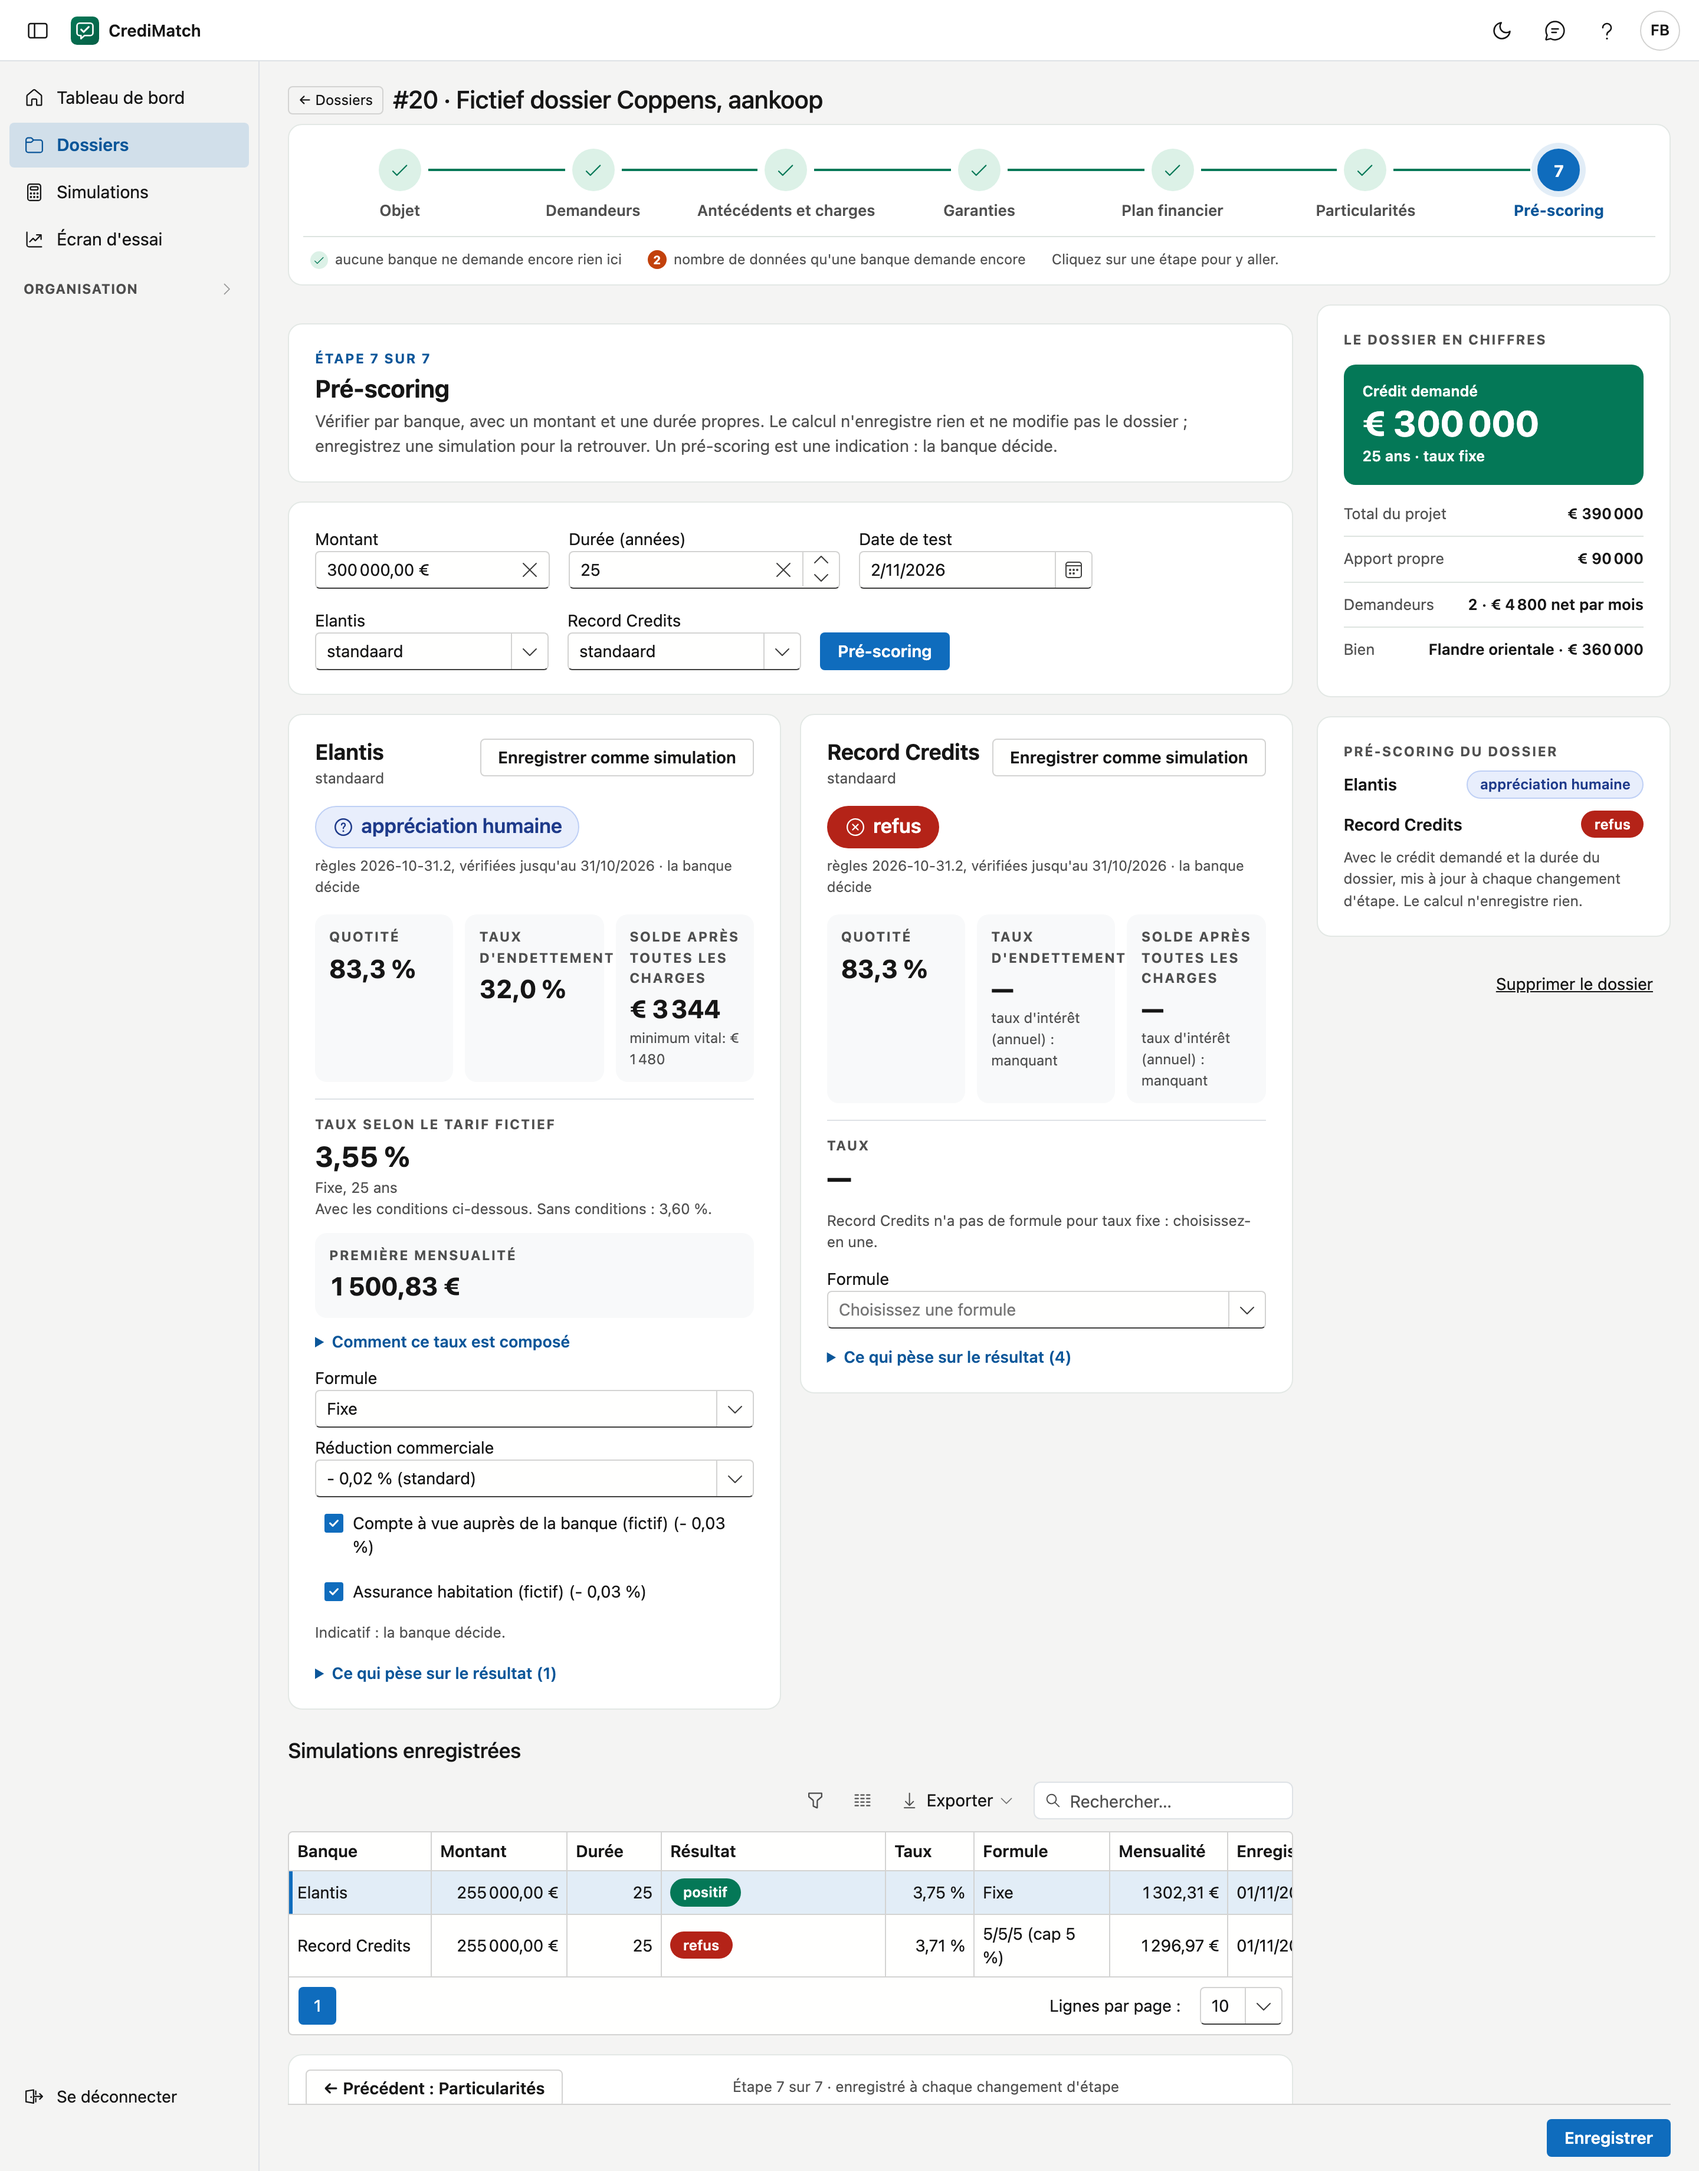
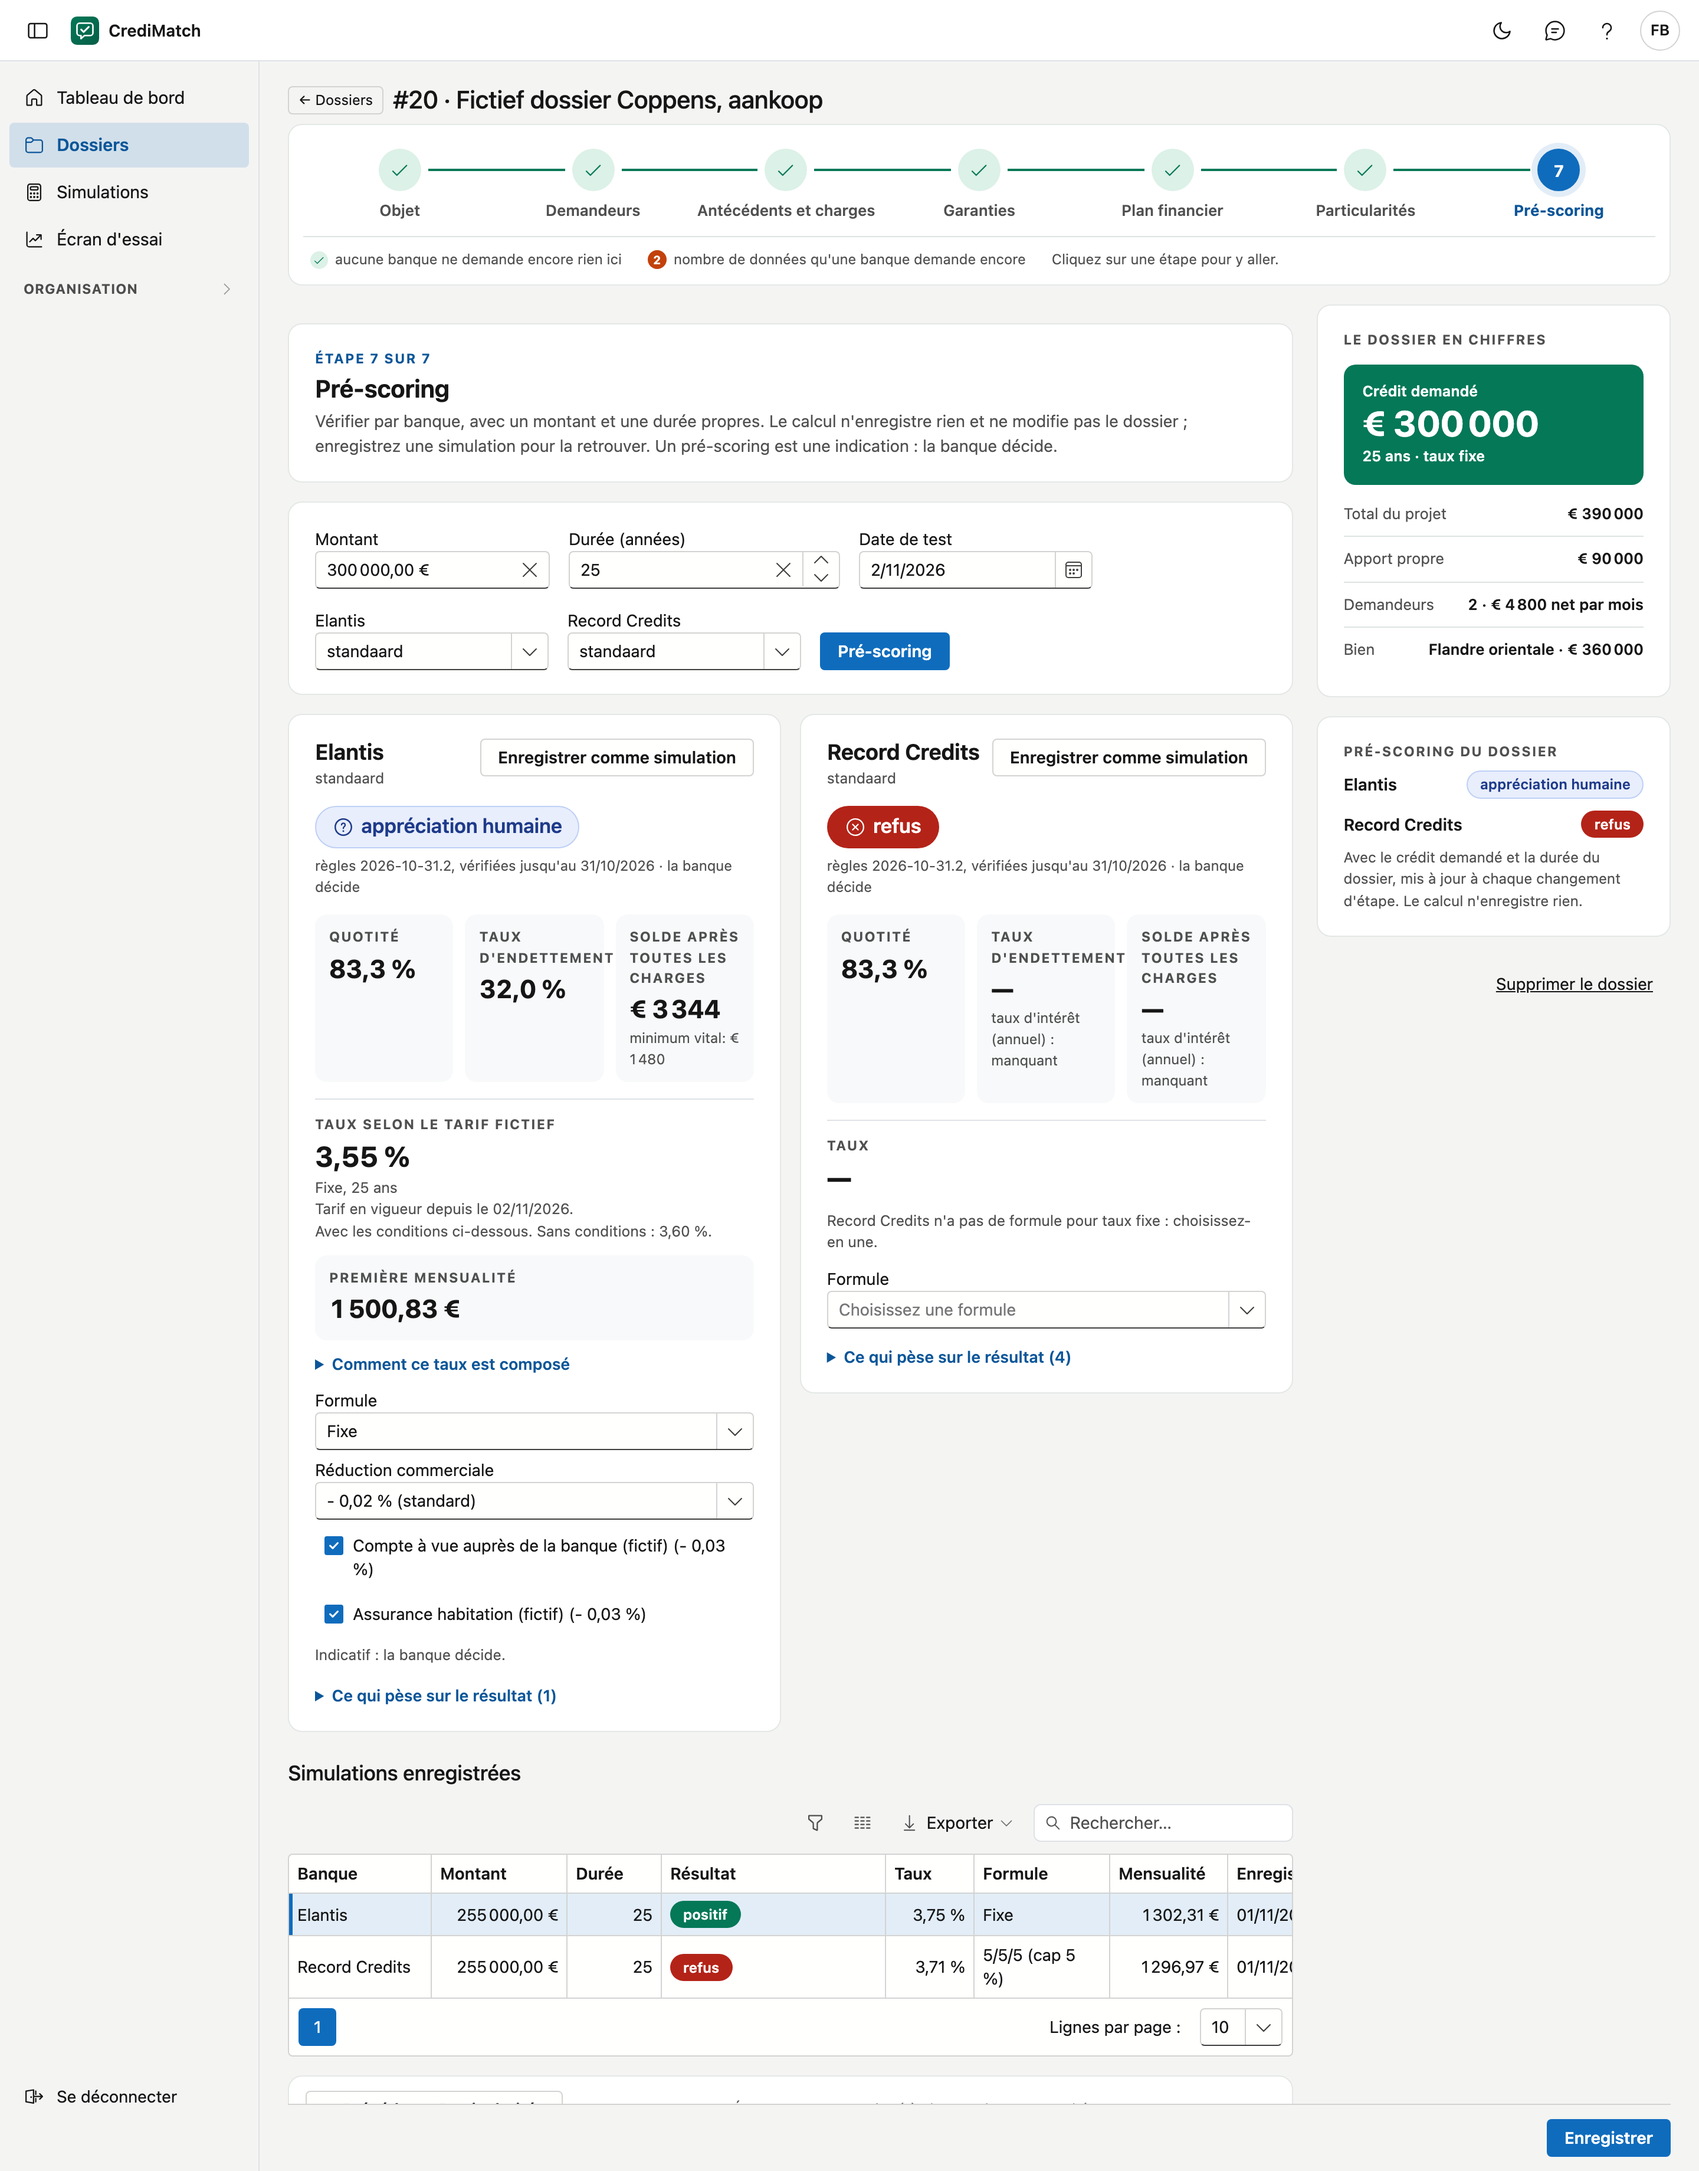
Dossiers: de kaart onthoudt uw keuzes en zegt sinds wanneer het tarief geldt

Changed region(s): [[0.1562, 0.5625, 0.7812, 0.9688], [0.4375, 0.9375, 0.4688, 0.9688]]

diff --git a/docs/dossiers.fr.md b/docs/dossiers.fr.md
@@ -173,12 +173,14 @@ modifient souvent : la même vérification peut donner un autre taux la semaine 
 
 Sur la carte d'une banque :
 
-- **Taux selon le tarif …** : le taux, avec la formule et la durée en dessous. S'il y a des conditions, le taux sans ces conditions figure aussi ;
+- **Taux selon le tarif …** : le taux, avec la formule et la durée en dessous, et depuis quand ce tarif est en vigueur. S'il y a des conditions, le taux sans ces conditions figure aussi ;
 - **Première mensualité**, pour un taux variable aussi **Mensualité au taux maximal**, et les **Frais de dossier** si la banque les mentionne ;
 - **Comment ce taux est composé** : cliquez dessus pour voir le taux de base, les réductions et les majorations ;
 - **Formule** : la formule qui correspond au type de taux du dossier. Vous pouvez en choisir une autre. Si aucune ne correspond, un trait figure à côté du taux et la carte demande d'en choisir une. Cela ne compte pas comme une donnée manquante ;
 - **Réduction commerciale** : la réduction définie par votre organisation (voir [Banques](banken.md)). Vous choisissez dans la limite du plafond ; si vous ne choisissez rien, le standard s'applique ;
 - les **conditions** de la banque, par exemple un compte à vue ou une assurance : elles sont cochées, et vous décochez ce que votre client ne prend pas. Le taux est recalculé aussitôt.
+
+CrediMatch retient ce que vous choisissez. La formule, la réduction et les conditions restent par banque dans le dossier : si vous le rouvrez plus tard, la carte calcule immédiatement avec votre choix, et le tableau de bord en tient compte. Les données du dossier et sa date de mise à jour n'en sont pas modifiées.
 
 Ce qui découle du dossier, comme la quotité et la performance énergétique, vous ne le choisissez pas : la carte en tient compte. CrediMatch n'affiche pas de TAEG : il figure dans l'ESIS de la banque.
 
@@ -189,6 +191,7 @@ Ce qui peut figurer sur la carte à la place du tarif :
 | **Taux propre du dossier** | un taux figure à l'étape 5. Il l'emporte, pour chaque banque. La carte indique aussi ce que le tarif donnerait. Laissez le taux vide pour calculer avec le tarif |
 | un trait et *Aucun tarif* | la banque n'a pas de tarif à la date de test. Saisissez un taux à l'étape 5, ou choisissez une autre date |
 | un trait et *La quotité n'est pas connue* | le taux dépend de la quotité. Complétez d'abord les données qui manquent en dessous |
+| un trait pour une formule choisie auparavant | le tarif en vigueur ne connaît plus cette formule. Choisissez-en une autre |
 
 ### Enregistrer une simulation
 

diff --git a/docs/dossiers.md b/docs/dossiers.md
@@ -167,12 +167,14 @@ ze vaak: dezelfde toets kan volgende week een andere rente geven.
 
 Op de kaart van een bank:
 
-- **Rentevoet volgens tarief …**: de rente, met de formule en de looptijd eronder. Staan er voorwaarden aan, dan staat er ook de rente zonder die voorwaarden;
+- **Rentevoet volgens tarief …**: de rente, met de formule en de looptijd eronder, en sinds wanneer dat tarief geldt. Staan er voorwaarden aan, dan staat er ook de rente zonder die voorwaarden;
 - **Eerste maandlast**, bij een variabele rente ook **Maandlast bij de maximale rente**, en de **Dossierkosten** als de bank ze noemt;
 - **Hoe die rente is opgebouwd**: klik erop om de basisrente, de kortingen en de toeslagen te zien;
 - **Formule**: de formule die past bij het rentetype van het dossier. U kunt er een andere kiezen. Past er geen enkele, dan staat er een streep bij de rente en vraagt de kaart om er een te kiezen. Dat telt niet als een ontbrekend gegeven;
 - **Commerciële korting**: de korting die uw organisatie instelde (zie [Banken](banken.md)). U kiest binnen het plafond; kiest u niets, dan geldt de standaard;
 - de **voorwaarden** van de bank, bijvoorbeeld een zichtrekening of een verzekering: ze staan aangevinkt, en u vinkt uit wat uw klant niet neemt. De rente rekent meteen opnieuw.
+
+CrediMatch onthoudt wat u kiest. De formule, de korting en de voorwaarden blijven per bank bij het dossier: opent u het later opnieuw, dan rekent de kaart meteen met uw keuze, en het dashboard telt ze mee. De gegevens van het dossier en de datum waarop het bijgewerkt is, wijzigen daardoor niet.
 
 Wat er uit het dossier volgt, zoals de quotiteit en de energieprestatie, kiest u niet: de kaart rekent het mee. CrediMatch toont geen JKP: dat staat in de ESIS van de bank.
 
@@ -183,6 +185,7 @@ Wat op de kaart kan staan in plaats van het tarief:
 | **Eigen rentevoet uit het dossier** | in stap 5 staat een rente. Die wint, bij elke bank. De kaart zegt erbij wat het tarief zou geven. Laat de rente leeg om met het tarief te rekenen |
 | een streep en *geen tarief* | de bank heeft op de toetsdatum geen tarief. Vul in stap 5 een rente in, of kies een andere datum |
 | een streep en *De quotiteit is niet gekend* | de rente hangt van de quotiteit af. Vul eerst de gegevens in die eronder ontbreken |
+| een streep bij een formule die u eerder koos | het tarief dat nu geldt, kent die formule niet meer. Kies een andere |
 
 ### Een simulatie bewaren
 
